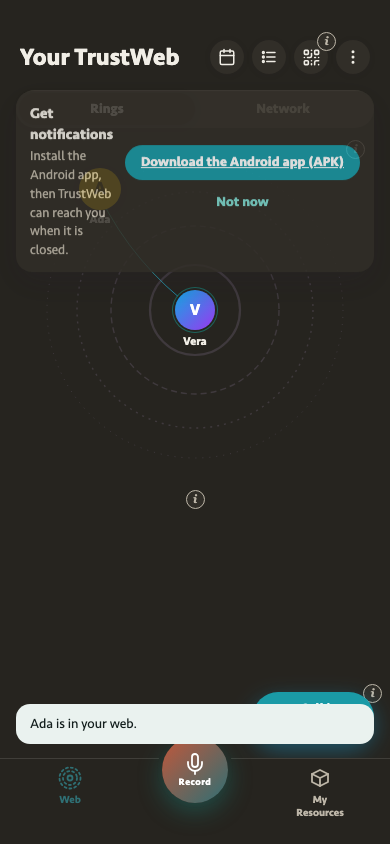
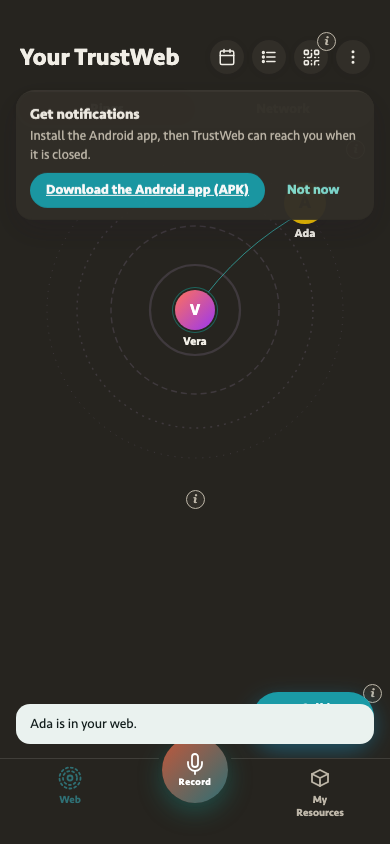
Wave 16: the loading screen is dark like the app (light only under data-theme=light); the APK and iPhone hints stack text over buttons

Changed region(s): [[0.0615, 0.1232, 0.9231, 0.3081], [0.4308, 0.3389, 0.5538, 0.4005]]

diff --git a/apps/trustweb/index.html b/apps/trustweb/index.html
@@ -10,11 +10,12 @@
   <title>TrustWeb</title>
   <style>
     /* Wave 16: what shows before the bundle runs; the start screen's colours, so the swap is quiet. */
-    [data-loading]{position:fixed;inset:0;display:flex;flex-direction:column;align-items:center;justify-content:center;gap:10px;background:#F5F0E8;color:#1F2A28;font-family:Inter,Seravek,"Avenir Next","Segoe UI",system-ui,sans-serif}
+    [data-loading]{position:fixed;inset:0;display:flex;flex-direction:column;align-items:center;justify-content:center;gap:10px;background:#26241F;color:#F1EEE6;font-family:Inter,Seravek,"Avenir Next","Segoe UI",system-ui,sans-serif}
     [data-loading] .logo{width:64px;height:64px;border-radius:50%;display:grid;place-items:center;font-size:34px;color:#fff;background:linear-gradient(135deg,#C2573A,#2F6F74)}
     [data-loading] b{font-size:34px;font-weight:600}
-    [data-loading] span{color:#5A6B66;font-size:14px}
-    @media (prefers-color-scheme:dark){[data-loading]{background:#26241F;color:#F1EEE6}[data-loading] span{color:#BDB6A8}}
+    [data-loading] span{color:#BDB6A8;font-size:14px}
+    /* Dark is the app's default; light only when the person chose it (html[data-theme="light"], set by main.ts). */
+    html[data-theme="light"] [data-loading]{background:#F5F0E8;color:#1F2A28} html[data-theme="light"] [data-loading] span{color:#5A6B66}
   </style>
 </head>
 <body>

diff --git a/apps/trustweb/src/main.ts b/apps/trustweb/src/main.ts
@@ -1082,6 +1082,7 @@ let friendsTimer: ReturnType<typeof setTimeout> | undefined
 function hideNotice(): void { clearTimeout(friendsTimer); friendsEl.hidden = true }
 /** A small card under the header: non-blocking, only its own buttons take taps. */
 function showNotice(title: string, body: string, actions: HTMLElement[], autoHideMs?: number): void {
+  friendsEl.classList.remove('stack')
   friendsEl.replaceChildren(
     el('b', {}, [title]),
     el('span', {}, [body]),
@@ -1224,6 +1225,7 @@ function offerApkHint(tries = 40): void {
       ? [el('a', { class: 'btn btn-electric btn-sm', href: APK_URL, rel: 'noopener' }, [S.instApkButton]), el('button', { class: 'btn btn-ghost btn-sm', onclick: dismiss }, [S.apkHintNotNow])]
       : [el('button', { class: 'btn btn-ghost btn-sm', onclick: dismiss }, [S.iosSoonOk])])
     friendsEl.querySelector('span')?.setAttribute(android ? 'data-apk-hint' : 'data-ios-soon', '')
+    friendsEl.classList.add('stack')
   }, 4500)
 }
 

diff --git a/apps/trustweb/src/styles.css b/apps/trustweb/src/styles.css
@@ -262,6 +262,9 @@ textarea.field{resize:vertical; line-height:1.5}
   padding:12px 14px; box-shadow:0 10px 30px rgba(36,27,46,.22); display:grid; grid-template-columns:1fr auto; gap:2px 10px; align-items:center;
   font-size:13px; line-height:1.45; animation:tw-pop .25s ease-out}
 .demo-friends[hidden]{display:none}
+/* Wave 16 (apk hint): a long title + two buttons: text on top, buttons in a row under it. */
+.demo-friends.stack{grid-template-columns:1fr}
+.demo-friends.stack .notice-actions{grid-column:1; grid-row:auto; flex-direction:row; flex-wrap:wrap; align-items:center; margin-top:6px}
 .demo-friends b{font-size:14.5px; grid-column:1}
 .demo-friends span{color:var(--ink-soft); grid-column:1}
 .demo-friends .notice-actions{grid-column:2; grid-row:1 / span 2; display:flex; flex-direction:column; gap:6px; align-items:stretch}
